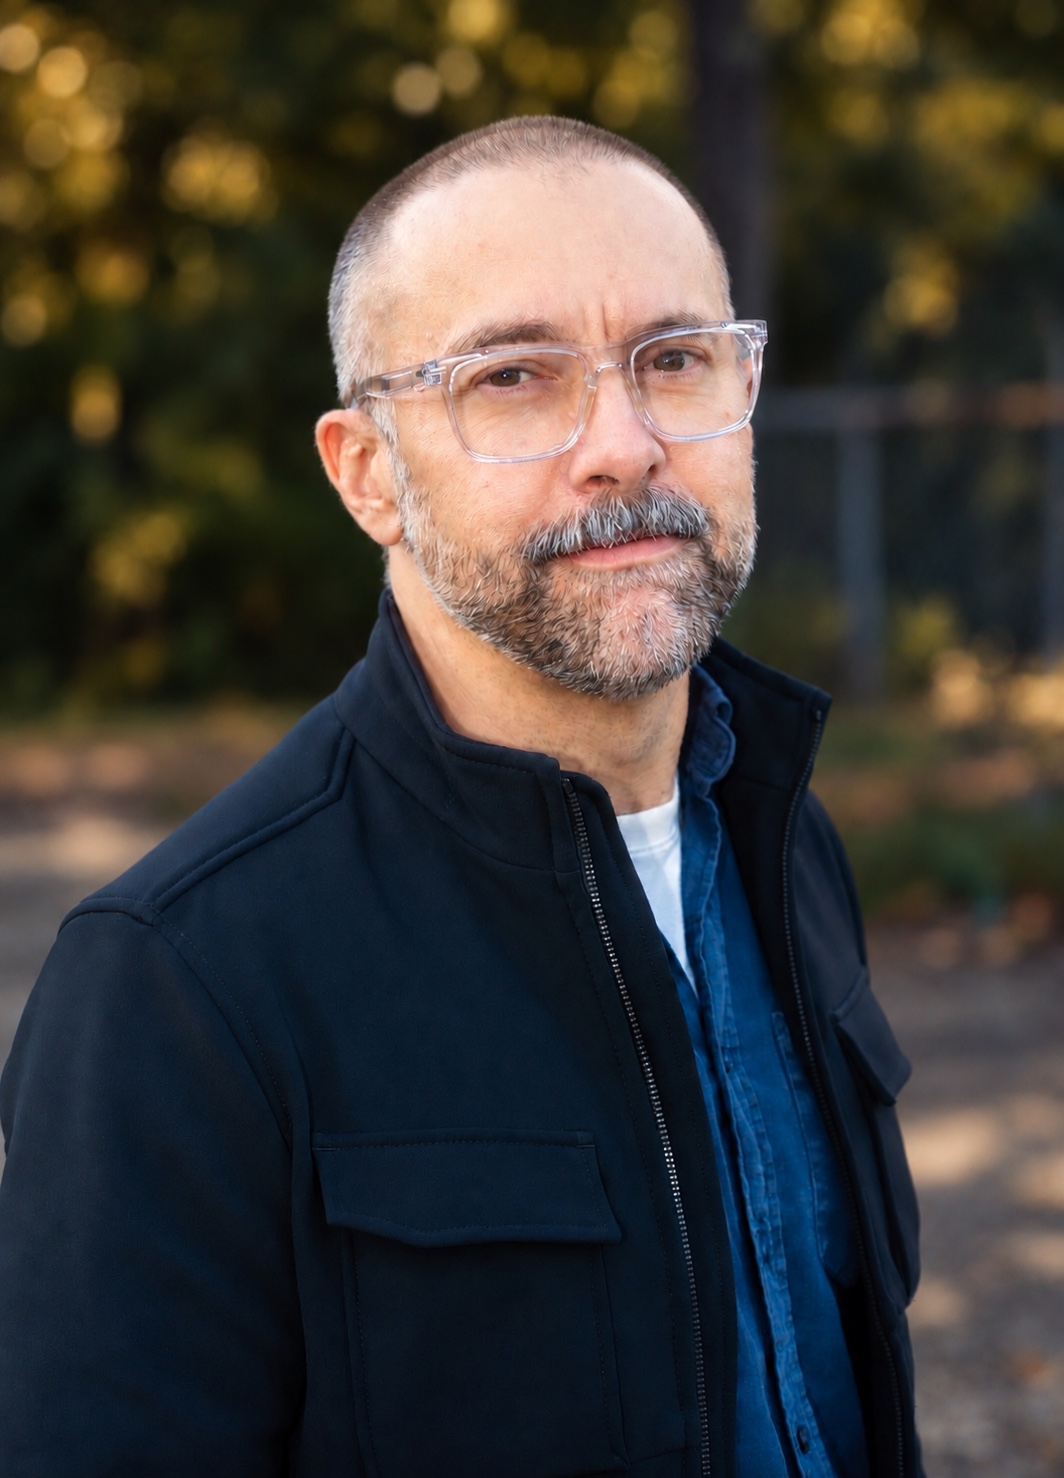
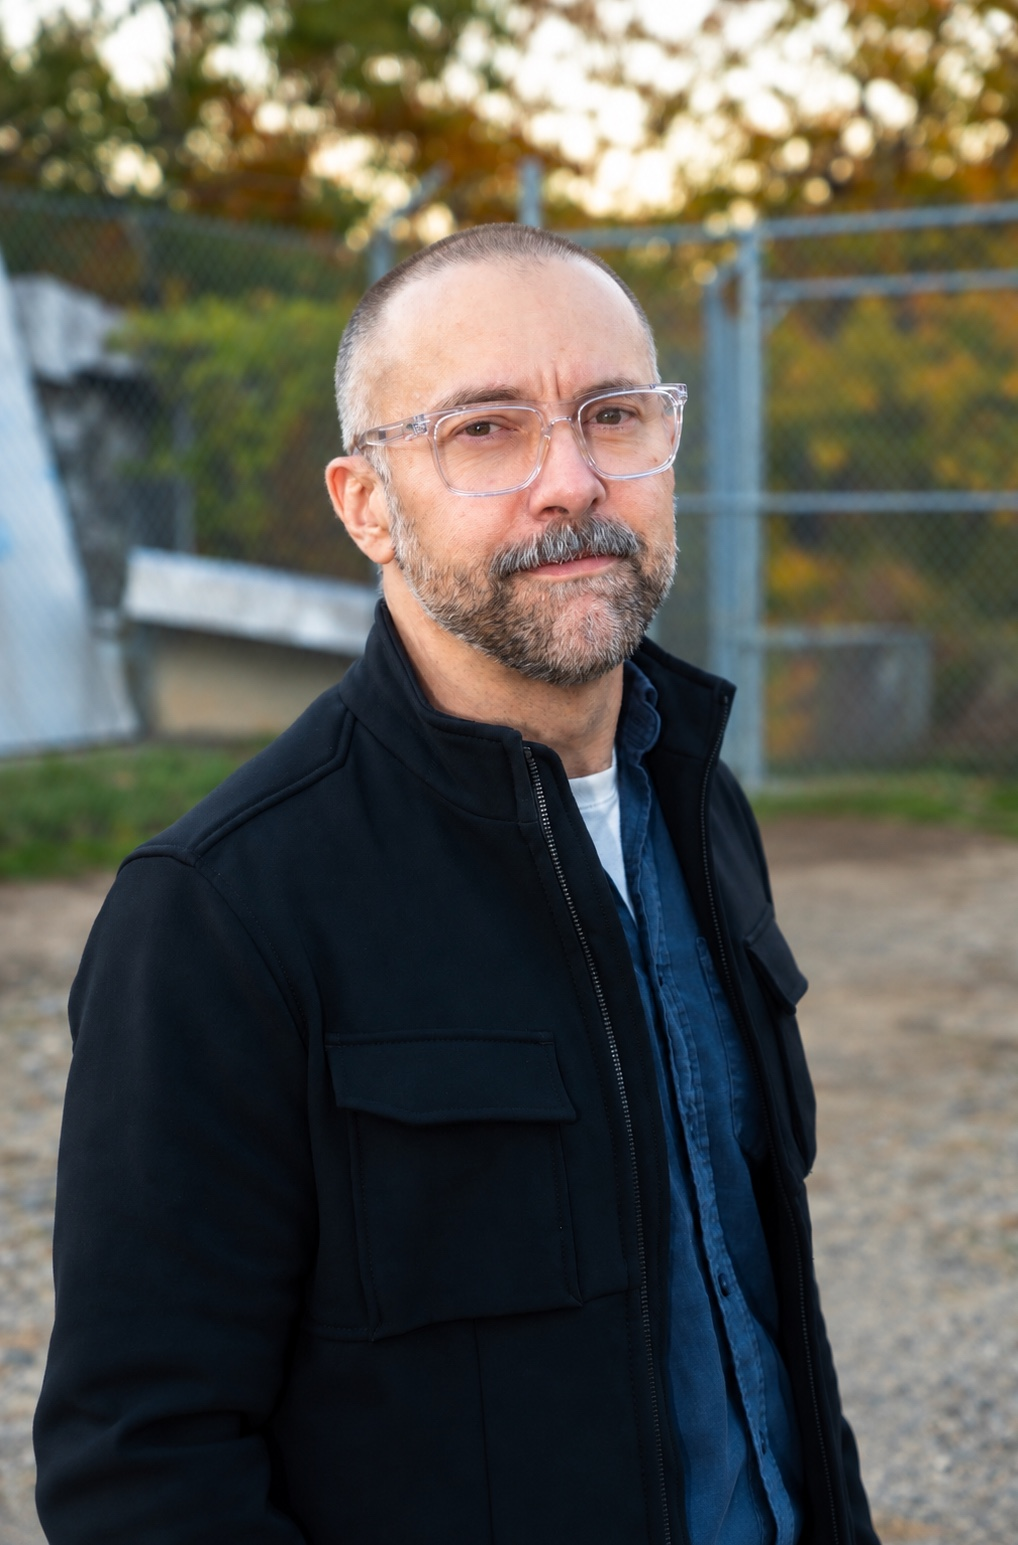
Replace bio headshot with new portrait

diff --git a/components/about-intro.tsx b/components/about-intro.tsx
@@ -24,7 +24,7 @@ export function AboutIntro() {
                   alt="Portrait of Lee Williamson"
                   fill
                   sizes="208px"
-                  className="object-cover object-[50%_15%] grayscale transition-[filter,transform] duration-700 ease-out group-hover:scale-[1.04] group-hover:grayscale-0"
+                  className="object-cover object-[50%_2%] grayscale transition-[filter,transform] duration-700 ease-out group-hover:scale-[1.04] group-hover:grayscale-0"
                 />
               </div>
             </div>
